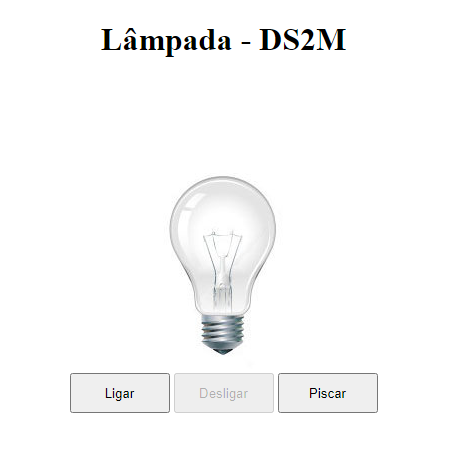
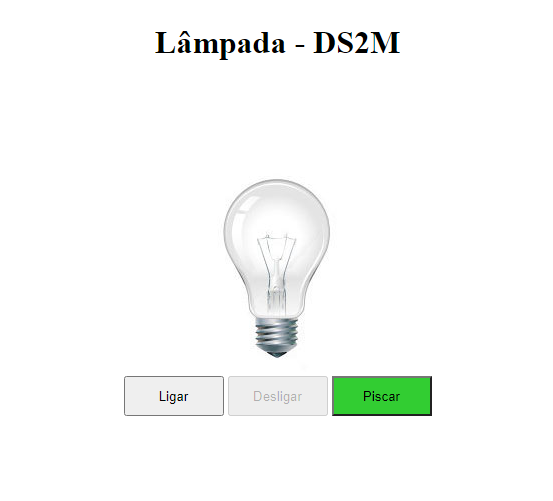
atualizações novas e finalizadas

diff --git a/lampada.js b/lampada.js
@@ -3,6 +3,9 @@
 const lampada = document.getElementById("lampada")
 let idInterval
 
+const piscar = document.getElementById("piscar")
+piscar.style.backgroundColor = "#32CD32"
+
 function buttonOnOfPisc (ligarButton, desligarButton, piscarLampada) {
     const ligar = document.getElementById("ligar")
     const desligar = document.getElementById("desligar")
@@ -66,9 +69,11 @@ function piscarLampada() {
         idInterval = setInterval (trocarImagem, 500)
 
         piscar.textContent = "Parar"
+        piscar.style.backgroundColor = "#C4202B"
     } else {
         clearInterval (idInterval)
         piscar.textContent = "Piscar"
+        piscar.style.backgroundColor = "#32CD32"
     }
 }
 

diff --git a/README.md b/README.md
@@ -8,6 +8,8 @@
 
 ![](img/projetoImg2.PNG)
 
+![](img/projetoImg3piscar.PNG)
+
 ![](img/projetoImg3.PNG)
 
 <b>O código foi constuído pensando em boas praticas, como responsabilidade única e funções puras.<b>
